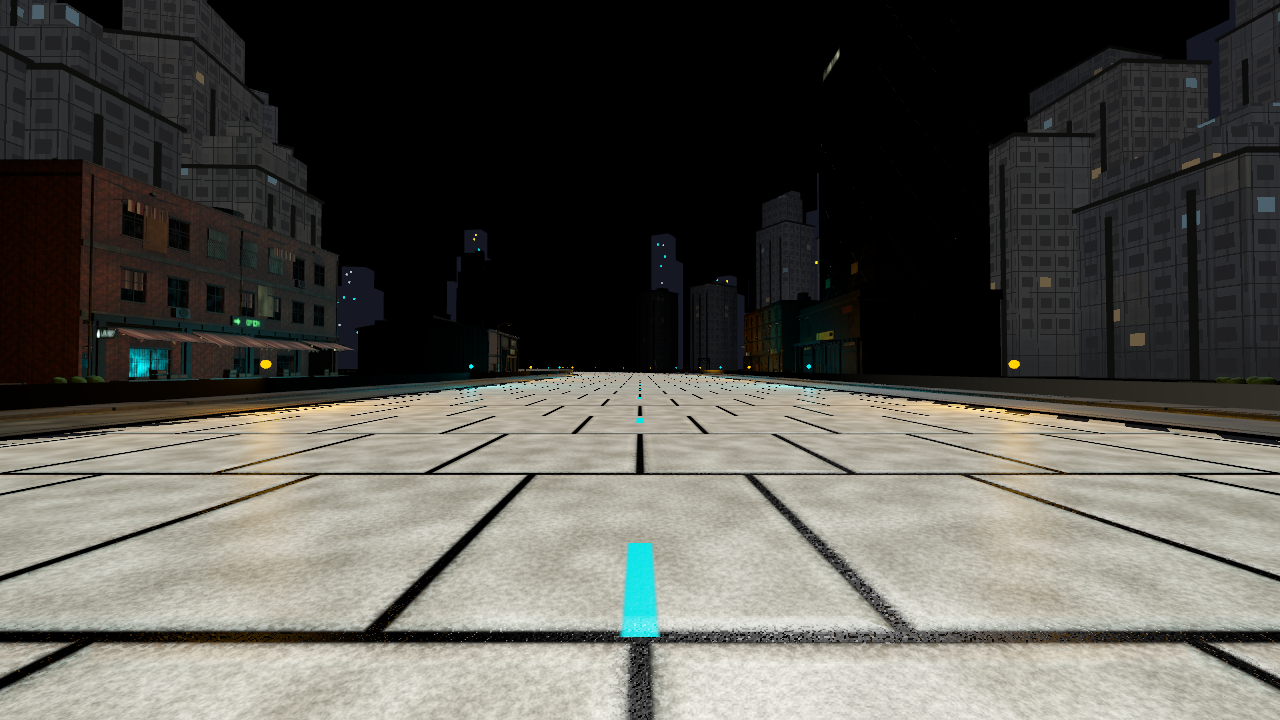
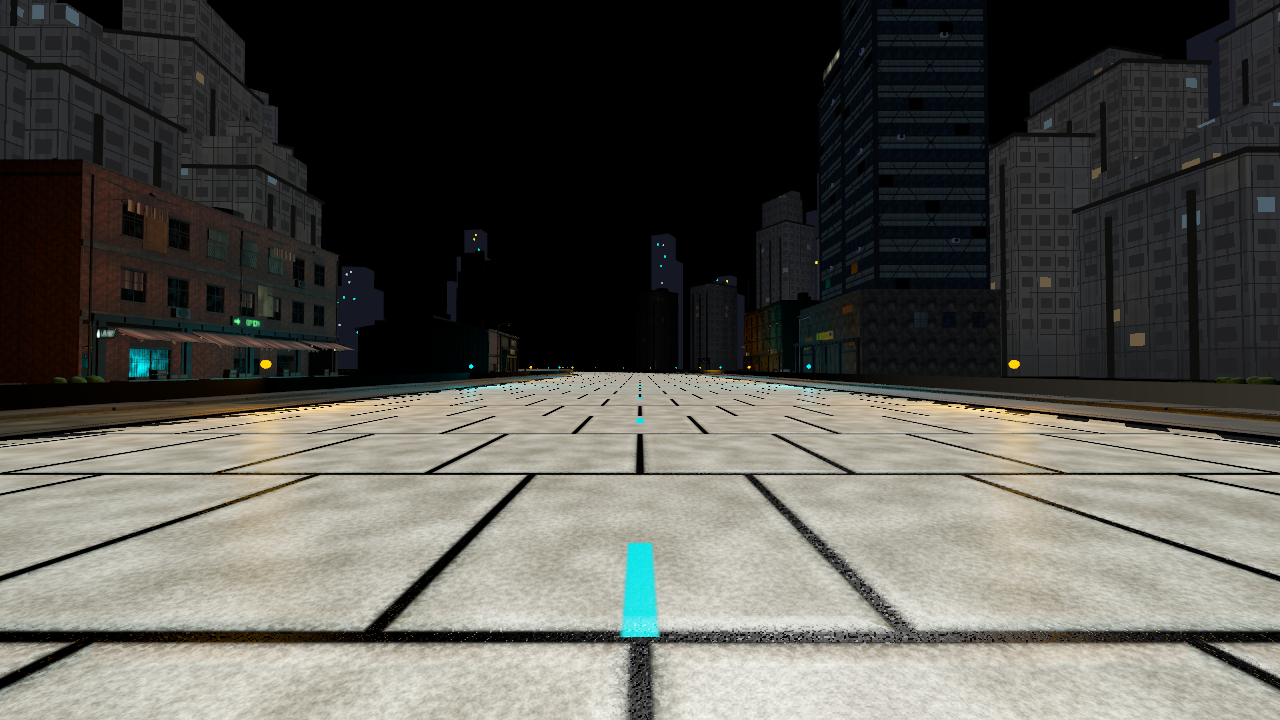
fix(city): polish bounded fire and textured tower readability

Changed region(s): [[0.625, 0.0, 0.7812, 0.4278], [0.6875, 0.4278, 0.75, 0.4583]]

diff --git a/.ai/escalations/20261101-090156-debug-claude.md b/.ai/escalations/20261101-090156-debug-claude.md
@@ -1,0 +1,147 @@
+Status: I've read all the files, so here is the patch.
+
+## Root causes
+- **Flame:** `_quad` writes UV.y = 1 at the base and 0 at the tip (`city_roadside_fx.gd:41-44`). `roadside_fire.gdshader:27,36-41,44` treat UV.y as height. So the sway grows at the base, the width limit and "tip" fade are inverted, and the hot colour sits at the top. That gives the white inverted cone.
+- **Fire AABB:** `build` makes `xf` with a yaw basis (`city_roadside_fx.gd:116`) and then calls `world_box(xf, mesh().custom_aabb)`. A yawed 4×H×4 box comes out larger than the axis-aligned box the layout reserves. The pool is symmetric and the smoke is world-anchored, so the yaw changes nothing visually. Dropping the basis rotation is safe.
+- **Towers:** `TrackMaterials.environment` disables ambient and reflection (`track_materials.gd:45`). The canonical `StandardMaterial3D`s therefore only get direct light. Upper floors are outside the street lights, so they render black.
+
+## Patch
+
+```diff
+--- a/godot/shaders/roadside_fire.gdshader
++++ b/godot/shaders/roadside_fire.gdshader
+@@ void vertex() {
+-		float h = UV.y;
++		float h = 1.0 - UV.y;   // _quad writes UV.y = 1 at the base, 0 at the tip
+@@ void fragment() {
+-		vec2 uv = UV;
++		vec2 uv = vec2(UV.x, 1.0 - UV.y);   // uv.y is height: 0 at the base, 1 at the tip
+ 		float w = abs(uv.x - 0.5) * 2.0;
+ 		float n = vnoise(vec2(uv.x * 4.0 + v_phase * 7.0, uv.y * 3.0 - TIME * 2.4));
+-		float limit = mix(0.95, 0.1, pow(uv.y, 0.8)) + (n - 0.5) * 0.3 * uv.y;
++		float limit = mix(0.85, 0.08, pow(uv.y, 0.7)) + (n - 0.5) * 0.55 * uv.y;
+ 		float body = smoothstep(limit, limit * 0.35, w);
+-		float tip = 1.0 - smoothstep(0.5, 1.0, uv.y + (n - 0.5) * 0.35);
+-		vec3 hot = vec3(1.0, 0.92, 0.55);
+-		vec3 cool = vec3(1.0, 0.32, 0.05);
+-		ALBEDO = mix(hot, cool, clamp(uv.y * 1.25, 0.0, 1.0)) * intensity;
+-		ALPHA = clamp(body * tip, 0.0, 1.0);
++		float tip = 1.0 - smoothstep(0.45, 1.0, uv.y + (n - 0.5) * 0.5);
++		vec3 hot = vec3(1.0, 0.68, 0.22);
++		vec3 cool = vec3(0.95, 0.22, 0.03);
++		ALBEDO = mix(hot, cool, clamp(uv.y * 1.3, 0.0, 1.0)) * intensity;
++		ALPHA = clamp(body * tip, 0.0, 1.0) * 0.85;
+```
+
+The `else` (pool) branch is unchanged. Also change `_material(0.0, 1.55, 1)` to `_material(0.0, 1.0, 1)`, which lowers the clipped white.
+
+```diff
+--- a/godot/scripts/city_roadside_fx.gd
++++ b/godot/scripts/city_roadside_fx.gd
+-		_surface(result, _flame_arrays(), _material(0.0, 1.55, 1))
++		_surface(result, _flame_arrays(), _material(0.0, 1.0, 1))
+@@ static func build(
+-static func build(parent: Node3D, fire_bases: Array[Vector3], coal_heights: Array[float], yaw: Array[float]) -> Array[MultiMeshInstance3D]:
++## `fire_bases` are already in world space (barrel yaw is applied by the caller). The effect stays axis-aligned: the pool is symmetric and smoke is
++## world-anchored, so yawing the node would only inflate its box past the reserved one. `_yaw` is kept for call compatibility.
++static func build(parent: Node3D, fire_bases: Array[Vector3], coal_heights: Array[float], _yaw: Array[float]) -> Array[MultiMeshInstance3D]:
+@@
+-		var xf := Transform3D(Basis(Vector3.UP, yaw[i]), fire_bases[i])
++		var xf := Transform3D(Basis.IDENTITY, fire_bases[i])
+```
+
+```diff
+--- a/godot/scripts/city_roadside_catalog.gd
++++ b/godot/scripts/city_roadside_catalog.gd
+@@ (after const TRIANGLE_CAPS)
++## Tower-only local readability fill. The city environment has no ambient or reflection light, so upper floors outside streetlight reach render black.
++## Tower surfaces get a cached duplicate of the canonical material (same resource_name, same shared textures and normal/ORM) with the albedo texture added as
++## a dim emission. Signs and lamps already emit, and the source library materials are never edited.
++const TOWER_FILL := {"glass_window": 0.32}
++const TOWER_FILL_DEFAULT := 0.22
++const TOWER_FILL_SKIP: Array[String] = ["sign_atlas", "lamp_glass"]
++static var tower_variants: Dictionary = {}
+@@ available(), right after `var box := mesh.get_aabb()` guard passes (before `loaded[id] = raw`)
++			if _role(id) == "tower" or _role(id) == "tower_lod1":
++				_apply_tower_fill(mesh)
+ 			var names: Array[String] = []
+@@ (new function, before reset())
++static func _apply_tower_fill(mesh: ArrayMesh) -> void:
++	for surface in mesh.get_surface_count():
++		var source := mesh.surface_get_material(surface) as StandardMaterial3D
++		if source == null or source.resource_name in TOWER_FILL_SKIP or source.albedo_texture == null:
++			continue
++		if not tower_variants.has(source.resource_name):
++			var variant := source.duplicate() as StandardMaterial3D   # textures stay shared references
++			variant.emission_enabled = true
++			variant.emission_operator = BaseMaterial3D.EMISSION_OP_ADD
++			variant.emission = Color(0.8, 0.85, 1.0)
++			variant.emission_texture = source.albedo_texture
++			variant.emission_energy_multiplier = float(TOWER_FILL.get(source.resource_name, TOWER_FILL_DEFAULT))
++			variant.set_meta("tower_fill_of", source)
++			tower_variants[source.resource_name] = variant
++		mesh.surface_set_material(surface, tower_variants[source.resource_name])
+@@ reset()
++	tower_variants = {}
+```
+
+`_load_mesh` returns a fresh ArrayMesh each time, so only the tower's own mesh changes. The canonical materials, GLBs and PNGs are untouched, and `resource_name` stays the same, so the `costs[...]["materials"]` names still match. The fill is emission through the existing albedo texture, so PBR normal and roughness are preserved. Because the texture is unshaded-bright times 0.22, it stays well below self-lit white, and the vertex wear still shows through the albedo term.
+
+## Test changes (`city_roadside_tests.gd`)
+Line 64-66: allow documented tower variants and keep everything else strict.
+
+```diff
+-			if material == null or not CityRealismCatalog.materials.has(material.resource_name) or material != CityRealismCatalog.materials[material.resource_name]:
++			var canonical: Material = CityRealismCatalog.materials.get(material.resource_name) if material != null else null
++			var is_fill: bool = material != null and CityRoadsideCatalog.tower_variants.get(material.resource_name) == material and material.get_meta("tower_fill_of") == canonical
++			if material == null or canonical == null or (material != canonical and not (is_fill and (id.begins_with("tower_")))):
+ 				bad_material += 1
+```
+
+Add to `_test_towers`:
+
+```gdscript
+	var filled := 0
+	var shared := true
+	for id in CityRoadsideCatalog.TOWERS:
+		var tower_mesh: ArrayMesh = CityRoadsideCatalog.meshes[id]
+		for s in tower_mesh.get_surface_count():
+			var m := tower_mesh.surface_get_material(s) as StandardMaterial3D
+			var src: StandardMaterial3D = CityRealismCatalog.materials[m.resource_name]
+			if m != src:
+				filled += 1
+				shared = shared and m.albedo_texture == src.albedo_texture and m.normal_texture == src.normal_texture and m.roughness_texture == src.roughness_texture and m.emission_energy_multiplier <= 0.35
+			else:
+				shared = shared and m.resource_name in CityRoadsideCatalog.TOWER_FILL_SKIP
+	_check("tower surfaces use readability variants sharing canonical textures (%d)" % filled, filled >= 6 and shared)
+	for name: String in CityRealismCatalog.materials:
+		var canon := CityRealismCatalog.materials[name] as StandardMaterial3D
+		_check("canonical %s keeps no tower fill" % name, not canon.emission_enabled or name in CityRoadsideCatalog.TOWER_FILL_SKIP)
+```
+
+If any other canonical material legitimately emits, narrow that loop. Add to the fire test (around line 413) a flame orientation check and the yaw regression:
+
+```gdscript
+	_check("flame height is oriented from UV (base UV.y=1)", flame.find("1.0 - UV.y") != -1 and flame.count("1.0 - UV.y") >= 2)
+	var fv := mesh.surface_get_arrays(0)
+	var oriented := true
+	for i in (fv[Mesh.ARRAY_VERTEX] as PackedVector3Array).size():
+		oriented = oriented and is_equal_approx((fv[Mesh.ARRAY_TEX_UV] as PackedVector2Array)[i].y, 1.0 if (fv[Mesh.ARRAY_VERTEX] as PackedVector3Array)[i].y < 0.01 else 0.0)
+	_check("flame mesh UV.y is 1 at the base and 0 at the tip", oriented)
+	var host := Node3D.new()
+	var yawed := CityRoadsideFx.build(host, [Vector3(10, 2, -5)] as Array[Vector3], [0.4] as Array[float], [0.9] as Array[float])
+	var want := AABB(Vector3(10, 2, -5) + mesh.custom_aabb.position, mesh.custom_aabb.size)
+	_check("non-zero yaw leaves the fire box axis-aligned at the reserved size", yawed[0].custom_aabb.position.is_equal_approx(want.position) and yawed[0].custom_aabb.size.is_equal_approx(want.size) and (yawed[0].get_meta("city_transforms")[0] as Transform3D).basis.is_equal_approx(Basis.IDENTITY))
+	host.free()
+```
+
+Note: the existing check at line 403 (`custom_aabb.grow(0.01).encloses(effect)`) now matches exactly. In the existing test, if the real barrels had yaw ≠ 0, it only passed because the box was oversized.
+
+## Verify
+1. Run `ak-test`. Expect the roadside suite plus the new checks to pass, with the 320k/160 and 12-light budgets unchanged (no mesh or light was added).
+2. Re-capture `assets/previews/city_roadside` for barrels 3 and 4 and for both towers (near and far LOD, since `tower_*_lod1` gets the same fill). Check that:
+   - the flame is wide at the base, tapering to flickering tongues, orange at the tip and pale yellow only near the coals;
+   - the shafts read as dark but textured grey-blue, darker than the unshaded backdrop and the podiums.
+3. If the shafts are still too dark, raise `TOWER_FILL_DEFAULT` to 0.30. If they look glowing, lower it to 0.15.
+
+**Tradeoff:** emission is flat fill, not directional, so the towers lose some form shading. The alternative is a vertical-gradient fill via a small spatial shader, but that breaks the canonical PBR bindings, so I'd avoid it.

diff --git a/.ai/plans/roadside-detail-layer.md b/.ai/plans/roadside-detail-layer.md
@@ -7,3 +7,5 @@ Split: Claude asset lead via ak-delegate owns building/prop asset work (headless
 Acceptance: measured minimum roadside exclusion for every generic building footprint (not merely its centre or first-row label); detailed towers have street-facing podiums, entrances/windows/service hardware/weathering and distinct silhouettes; original 66 detailed frontages and two actor pairs retained where physically possible, with any placement tradeoff measured. Silo/column landmarks gain wear, machinery/entrances/panel detail rather than a silhouette replacement. Boarded windows/doors, small inhabited-looking tarp/sleeping/belongings clusters and legible contained flame/smoke barrel effects occupy off-road reserved lots. No caricatured people or horror treatment of camps. Keep collision/clearance and deterministic placement, existing shared resources, local-light cap and explicit visible geometry/surface budgets; additions and any changed static caps must be measured. Add focused regression coverage for layering, dressing clearance, effects bounds, source immutability and fallbacks. Capture both landmarks, new detailed tower fronts, derelict/camp/barrel vignettes and road-height evidence in all quarters. Publish tested chat preview, not main.
 
 Layering stage integrated and verified: generic full-footprint rail clearance >=50 m (measured minimum50.17 m), beyond the deepest detailed rear face41.5 m. Legacy generic towers/decks/street-wall bodies are suppressed in converted mode; original RNG stream, skyline and crown stay intact. Background rows retain increasing depth offsets, with 299 buildings /1894 box instances /22728 triangles, safely below the existing cap. Original1440 detailed placement records (including66 buildings), base1,410,786 triangles and actors unchanged. ak-test focused backdrop70 passed/0 failed; actual Vulkan backdrop73 passed/0 failed including readback/mutation detection. Actual Vulkan QA21 captures saved,0 failures; road-height shots visually inspected. Independent Codex review APPROVE/no findings. Publishing this completed correction while the separate asset/detail stage continues.
+
+Integration polish applied from read-only escalation20261101-090156: flipped flame UV height to rise from the coals, reduced clipped-white intensity, fixed ordered smoothstep edges, clamped positive flame width and faded the physical top edge; fire meshes stay axis-aligned around already-transformed anchors so their full AABBs match the reserved4x4 boxes at nonzero barrel yaw. Newtower-only cached material variants add small textured emission fill because the game deliberately disables ambient/reflection; source canonical textures/normal/ORM are shared and original materials untouched. The escalation suggested ADD but integration uses MULTIPLY to preserve albedo texture contrast. Headless176 checks and36 rendered captures passed before the final two shader edge clamps; newcaptureimages show readable towers and correct upward flame. Existing city realism/density/kit/ground suites also passed (227/46/383/192). Independent fullasset/code review20261101-091110 requests podium aperture corrections, missingtower fallback, honest unbounded landmark accounting, subject-specific rendered verification and fail-fast required builder imports. Those corrections are the next bounded asset-lead handoff; the fullasset stage remains unpublished.

diff --git a/.ai/reviews/latest.md b/.ai/reviews/latest.md
@@ -1,2 +1,7 @@
-VERDICT: APPROVE
-FINDINGS: none
+VERDICT: CHANGES_REQUESTED
+FINDINGS:
+- [HIGH] tools/city_pipeline/city_roadside_towers.py:165 — The solid podium hull closes the facade openings: its front is y=-0.18, ahead of tower A’s recessed glass and doors and tower B’s lobby and shutters. These details are hidden behind brick/concrete despite passing triangle-count tests — remove the hull faces behind openings or construct the hull with matching openings, regenerate the GLBs, and verify the rendered frontages.
+- [HIGH] godot/scripts/city_roadside.gd:111 — Missing tower assets still trigger dictionary lookups even when `has_group("towers")` prevented tower placement. This breaks the promised optional-group fallback — skip `_towers` when its group is unavailable and test missing near and LOD assets.
+- [MED] godot/scripts/city_roadside.gd:209 — Measurement excludes landmark instances beyond 460 m, but the district landmark nodes have no visibility range. The reported combined budget can therefore omit geometry the renderer still draws — count all instances of these unrestricted batches or implement matching renderer culling.
+- [MED] godot/tests/city_roadside_qa.gd:85 — Pixel verification only checks whole-frame luminance variation; subject activity is inferred from metadata and distance calculations. A hidden or incorrectly rendered subject still passes against a detailed background — add subject-specific rendered verification, including coverage of recessed tower frontages.
+- [MED] tools/city_pipeline/build_city_roadside.py:53 — Broad `ImportError` handlers silently skip required asset groups, including errors from their dependencies, and can retain stale manifest entries — let unexpected imports fail and explicitly reject requested assets that were not generated.

diff --git a/.ai/reviews/20261101-091110-codex.md b/.ai/reviews/20261101-091110-codex.md
@@ -1,0 +1,7 @@
+VERDICT: CHANGES_REQUESTED
+FINDINGS:
+- [HIGH] tools/city_pipeline/city_roadside_towers.py:165 — The solid podium hull closes the facade openings: its front is y=-0.18, ahead of tower A’s recessed glass and doors and tower B’s lobby and shutters. These details are hidden behind brick/concrete despite passing triangle-count tests — remove the hull faces behind openings or construct the hull with matching openings, regenerate the GLBs, and verify the rendered frontages.
+- [HIGH] godot/scripts/city_roadside.gd:111 — Missing tower assets still trigger dictionary lookups even when `has_group("towers")` prevented tower placement. This breaks the promised optional-group fallback — skip `_towers` when its group is unavailable and test missing near and LOD assets.
+- [MED] godot/scripts/city_roadside.gd:209 — Measurement excludes landmark instances beyond 460 m, but the district landmark nodes have no visibility range. The reported combined budget can therefore omit geometry the renderer still draws — count all instances of these unrestricted batches or implement matching renderer culling.
+- [MED] godot/tests/city_roadside_qa.gd:85 — Pixel verification only checks whole-frame luminance variation; subject activity is inferred from metadata and distance calculations. A hidden or incorrectly rendered subject still passes against a detailed background — add subject-specific rendered verification, including coverage of recessed tower frontages.
+- [MED] tools/city_pipeline/build_city_roadside.py:53 — Broad `ImportError` handlers silently skip required asset groups, including errors from their dependencies, and can retain stale manifest entries — let unexpected imports fail and explicitly reject requested assets that were not generated.
